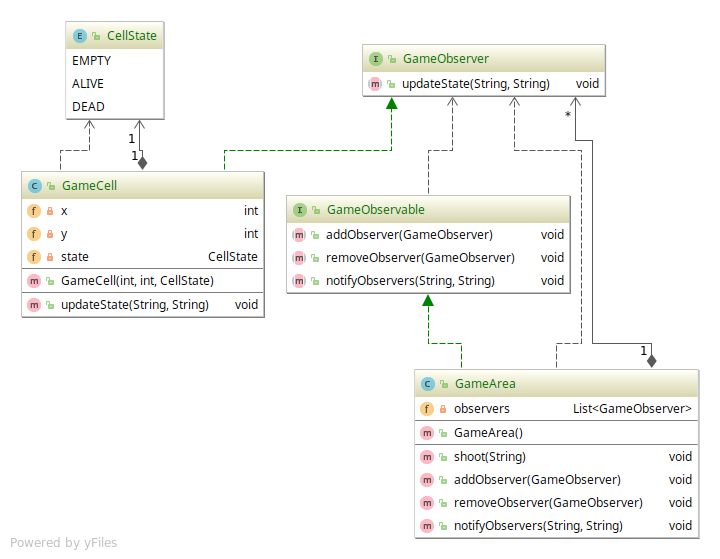
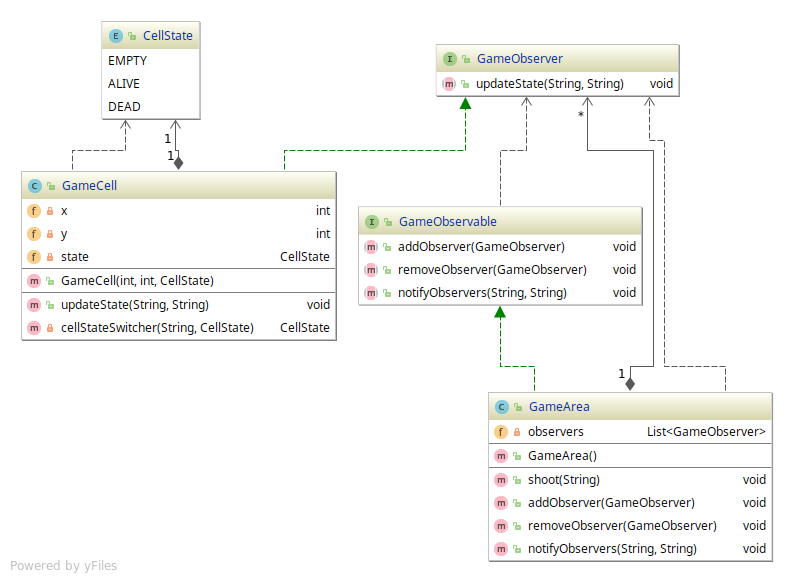
Updated labwork5.

diff --git a/src/com/lab111/labwork5/GameCell.java b/src/com/lab111/labwork5/GameCell.java
@@ -1,9 +1,13 @@
 package com.lab111.labwork5;
 
-// TODO add doc.
 /**
- * Created by alex323glo on 14.11.17.
- */
+ * Game area cell entity, which has logic of observer (subscriber).
+ *
+ * @author alex323glo
+ * @version 1.0.0
+ *
+ * @see GameObserver
+ * */
 public class GameCell implements GameObserver {
 
     private int x;
@@ -11,45 +15,76 @@ public class GameCell implements GameObserver {
 
     private CellState state;
 
+    /**
+     * Constructor with parameters.
+     * */
     public GameCell(int x, int y, CellState state) {
         this.x = x;
         this.y = y;
         this.state = state;
     }
 
+    /**
+     * Updates state of this observer.
+     *
+     * @param message notification message, which is used to delegate
+     *                change of state.
+     * @param newState initial value of new state of this observer.
+     * */
     @Override
     public void updateState(String message, String newState) {
-        if (message == null || state == null) {
-            System.out.println("()");
+        if (message == null || newState == null) {
+            System.out.println("(null-null): ...");
             return;
         }
 
         String[] cellCoords = message.split("-");
         if (Integer.valueOf(cellCoords[0]) == x && Integer.valueOf(cellCoords[1]) == y) {
-            switch (newState.toLowerCase()) {
-                case "empty":
-                    state = CellState.EMPTY;
-                    System.out.printf("(%d-%d): reassigned as EMPTY\n", x, y);
-                    break;
-                case "alive":
-                    state = CellState.ALIVE;
-                    System.out.printf("(%d-%d): reassigned as ALIVE\n", x, y);
-                    break;
-                case "dead":
-                    switch (state) {
-                        case ALIVE:
-                            state = CellState.DEAD;
-                            System.out.printf("(%d-%d): Killed!\n", x, y);
-                            break;
-                        case EMPTY:
-                            System.out.printf("(%d-%d): Missed (cell is empty)!\n", x, y);
-                            break;
-                        case DEAD:
-                            System.out.printf("(%d-%d): Already dead (can't kill twice)!\n", x, y);
-                            break;
-                    }
-                    break;
-            }
+            state = cellStateSwitcher(newState, state);
         }
+    }
+
+    /**
+     * Generates new state using proposed state and old state.
+     *
+     * @param stringState proposed state, presented as string.
+     *
+     * @param oldState current cell state value.
+     *
+     * @see CellState
+     * */
+    private CellState cellStateSwitcher(String stringState, CellState oldState) {
+        if (stringState == null) {
+            return null;
+        }
+
+        CellState result = null;
+
+        switch (stringState.toLowerCase()) {
+            case "empty":
+                result = CellState.EMPTY;
+                System.out.printf("(%d-%d): reassigned as EMPTY\n", x, y);
+                break;
+            case "alive":
+                result = CellState.ALIVE;
+                System.out.printf("(%d-%d): reassigned as ALIVE\n", x, y);
+                break;
+            case "dead":
+                switch (oldState) {
+                    case ALIVE:
+                        result = CellState.DEAD;
+                        System.out.printf("(%d-%d): Killed!\n", x, y);
+                        break;
+                    case EMPTY:
+                        System.out.printf("(%d-%d): Missed (cell is empty)!\n", x, y);
+                        break;
+                    case DEAD:
+                        System.out.printf("(%d-%d): Already dead (can't kill twice)!\n", x, y);
+                        break;
+                }
+                break;
+        }
+
+        return result;
     }
 }

diff --git a/src/com/lab111/labwork5/GameArea.java b/src/com/lab111/labwork5/GameArea.java
@@ -3,32 +3,63 @@ package com.lab111.labwork5;
 import java.util.ArrayList;
 import java.util.List;
 
-// TODO add doc.
 /**
- * Created by alex323glo on 14.11.17.
- */
+ * Game area entity, which has logic of observation subject.
+ * Aggregates observers (subscribers).
+ *
+ * @author alex323glo
+ * @version 1.0.0
+ *
+ * @see GameObservable
+ * */
 public class GameArea implements GameObservable {
 
     private List<GameObserver> observers;
 
+    /**
+     * Constructor.
+     * */
     public GameArea() {
         observers = new ArrayList<>();
     }
 
+    /**
+     * Business logic method, which describes shot action in game.
+     *
+     * @param coords position of target to shoot.
+     * */
     public void shoot(String coords) {
         notifyObservers(coords, "dead");
     }
 
+    /**
+     * Subscribes observer to this subject.
+     *
+     * @param observer reference to subscriber object.
+     * @see GameObserver
+     */
     @Override
     public void addObserver(GameObserver observer) {
         observers.add(observer);
     }
 
+    /**
+     * Unsubscribes observer from this subject.
+     *
+     * @param observer reference to subscriber object.
+     * @see GameObserver
+     */
     @Override
     public void removeObserver(GameObserver observer) {
         observers.remove(observer);
     }
 
+    /**
+     * Sends notification to all subscribers.
+     *
+     * @param message  notification message.
+     * @param newState initial value of new state of subscriber.
+     */
     @Override
     public void notifyObservers(String message, String newState) {
         System.out.println("Game observer: " + message + " -> " + newState);

diff --git a/src/com/lab111/labwork5/GameObservable.java b/src/com/lab111/labwork5/GameObservable.java
@@ -1,12 +1,39 @@
 package com.lab111.labwork5;
 
-// TODO add doc.
+/**
+ * General interface for subject of observation.
+ *
+ * @author alex323glo
+ * @version 1.0.0
+ *
+ * @see GameObserver
+ * */
 public interface GameObservable {
 
+    /**
+     * Subscribes observer to this subject.
+     *
+     * @param observer reference to subscriber object.
+     *
+     * @see GameObserver
+     * */
     void addObserver(GameObserver observer);
 
+    /**
+     * Unsubscribes observer from this subject.
+     *
+     * @param observer reference to subscriber object.
+     *
+     * @see GameObserver
+     * */
     void removeObserver(GameObserver observer);
 
+    /**
+     * Sends notification to all subscribers.
+     *
+     * @param message notification message.
+     *
+     * @param newState initial value of new state of subscriber.
+     * */
     void notifyObservers(String message, String newState);
-
 }

diff --git a/src/com/lab111/labwork5/GameObserver.java b/src/com/lab111/labwork5/GameObserver.java
@@ -1,11 +1,22 @@
 package com.lab111.labwork5;
 
-// TODO add doc.
 /**
- * Created by alex323glo on 14.11.17.
- */
+ * General interface for observer (subscriber).
+ *
+ * @author alex323glo
+ * @version 1.0.0
+ *
+ * @see GameObservable
+ * */
 public interface GameObserver {
 
-    void updateState(String message, String state);
+    /**
+     * Updates state of this observer.
+     *
+     * @param message notification message, which is used to delegate
+     *                change of state.
+     * @param newState initial value of new state of this observer.
+     * */
+    void updateState(String message, String newState);
 
 }

diff --git a/src/com/lab111/labwork5/CellState.java b/src/com/lab111/labwork5/CellState.java
@@ -1,6 +1,13 @@
 package com.lab111.labwork5;
 
-// TODO add doc.
+/**
+ * Enumeration of game cell states.
+ *
+ * @author alex323glo
+ * @version 1.0.0
+ *
+ * @see GameCell
+ * */
 public enum CellState {
     EMPTY,
     ALIVE,
